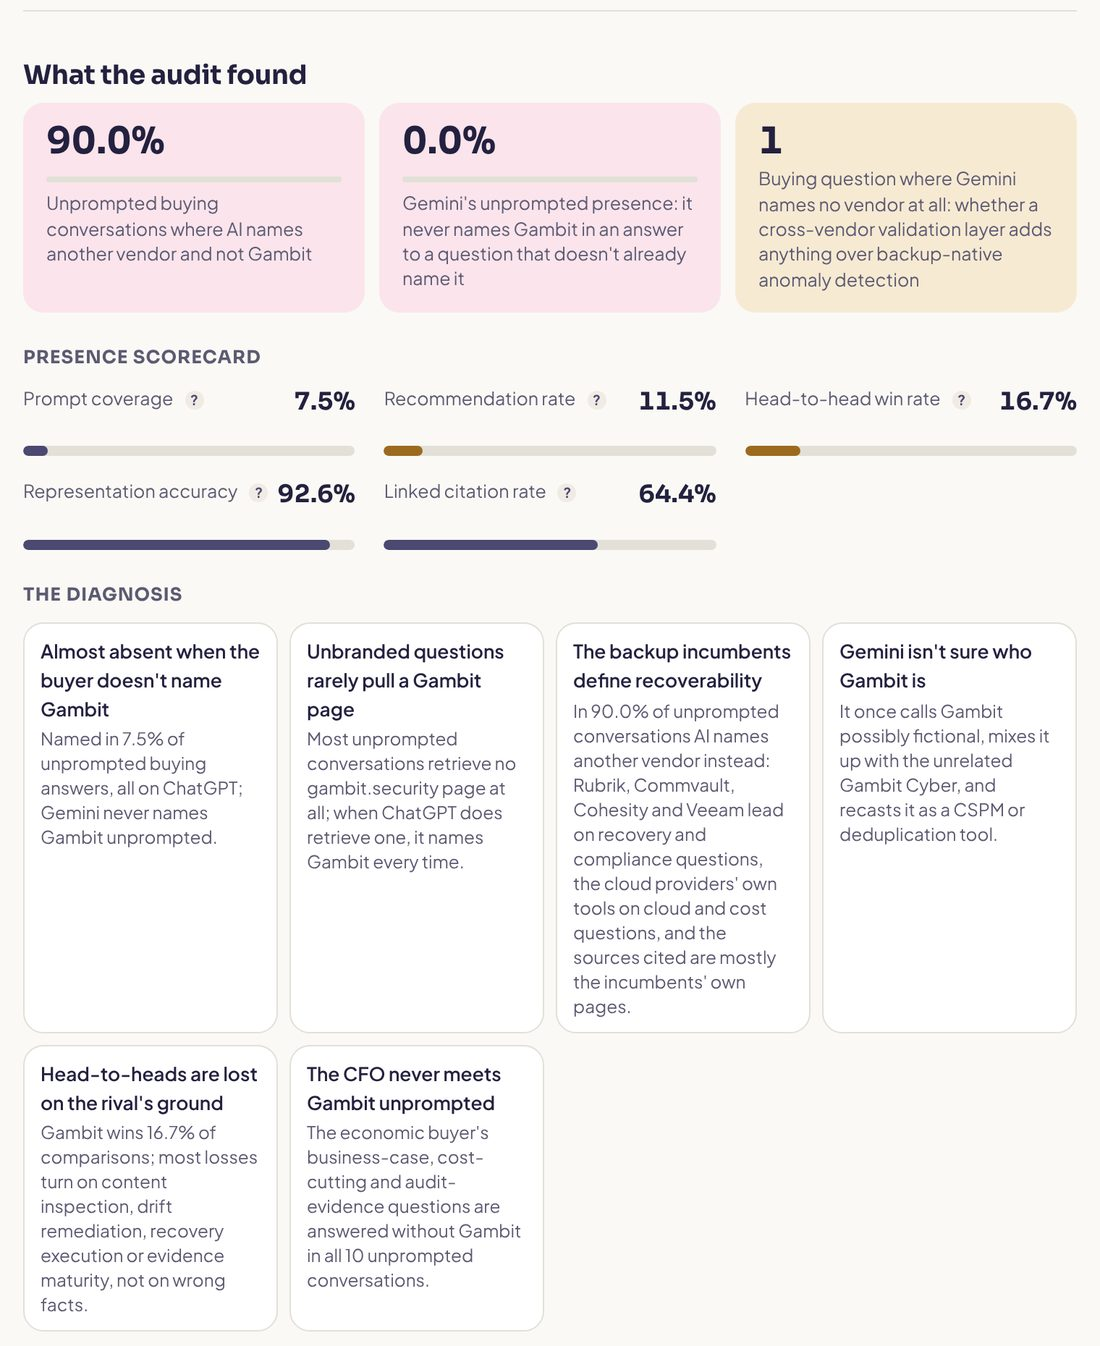
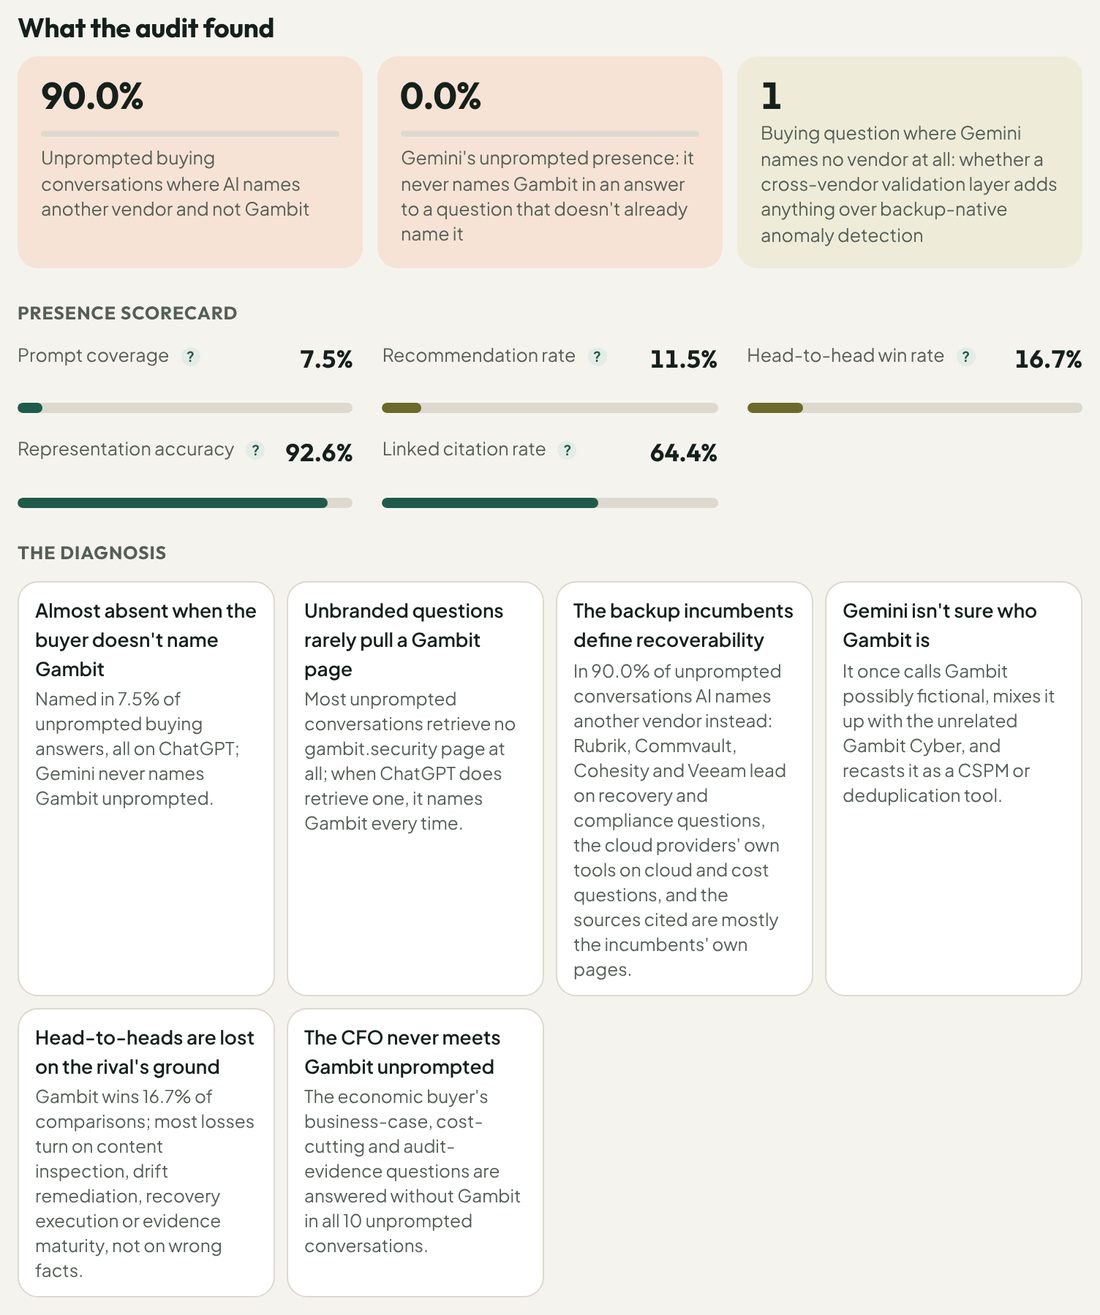
Gambit, glow.io, Upwind: etico-palette images; drafts recreated with signature
Claude-Session: https://claude.ai/code/session_01FkmvpNPQPiaJcrqHcmBq7V

Changed region(s): [[0.0, 0.0, 0.9891, 0.6548], [0.5255, 0.4365, 0.9582, 0.7795], [0.0309, 0.7795, 0.4636, 0.9977]]

diff --git a/campaign/tools/shoot_action_plan.js b/campaign/tools/shoot_action_plan.js
@@ -17,7 +17,7 @@ const srv = http.createServer((q, r) => { const f = path.join(dir, decodeURIComp
     const intro = document.querySelector('section.plan-intro'); const ic = intro.cloneNode(true); ic.querySelector('.plan-controls')?.remove(); ic.style.borderTop='none'; wrap.appendChild(ic);
     const cl = document.getElementById('clusterList'); const cc = cl.cloneNode(false); [...cl.children].slice(0, 4).forEach((c, i) => { const k = c.cloneNode(true); if (i === 3) fade(k); cc.appendChild(k); }); wrap.appendChild(cc);
     const om = document.getElementById('offpageMoves'); const head = om.previousElementSibling?.tagName === 'H3' ? om.previousElementSibling : om.parentElement.querySelector('h3');
-    const h = head.cloneNode(true); h.style.marginTop = '22px'; wrap.appendChild(h);
+    const h = head.cloneNode(true); h.style.marginTop = '22px'; wrap.appendChild(h); const sub = om.parentElement.querySelector('.beyond-sub'); if (sub) wrap.appendChild(sub.cloneNode(true));
     const mc = om.cloneNode(false); [...om.children].slice(0, 3).forEach((c, i) => { const k = c.cloneNode(true); if (i === 2) fade(k); mc.appendChild(k); }); wrap.appendChild(mc);
     document.querySelectorAll('#expandAllBtn').forEach(e => e.remove());
     document.body.prepend(wrap); window.scrollTo(0, 0);

diff --git a/campaign/log.md b/campaign/log.md
@@ -45,6 +45,7 @@ The manager appends one line per tick. Cohort learning notes go under "## Cohort
 - 2026-11-22T21:55:07+00:00 followup: bay/1 email1 sent to CEO
 - 2026-11-22 Bay email 1 sent to yuval@bay.io (sponsor's explicit request; v5, etico images, 'a unique research system'); follow-up thread bay/1, learn.py logged (features reconstructed).
 - 2026-11-22 sponsor: drafts must carry the Gmail signature. Gambit, glow.io, Upwind drafts recreated with includeSignature (sponsor's edited text kept) and the old ones deleted; rule added to MANAGER_TICK and state.rules. add-vee #20 merged.
+- 2026-11-22 Gambit, glow.io, Upwind images re-shot in the etico palette (approved Action Plan data, cluster colours mapped to etico, no data change); drafts recreated with signature, old ones deleted. Screenshot script kept in campaign/tools/shoot_action_plan.js.
 
 ## Cohorts
 
